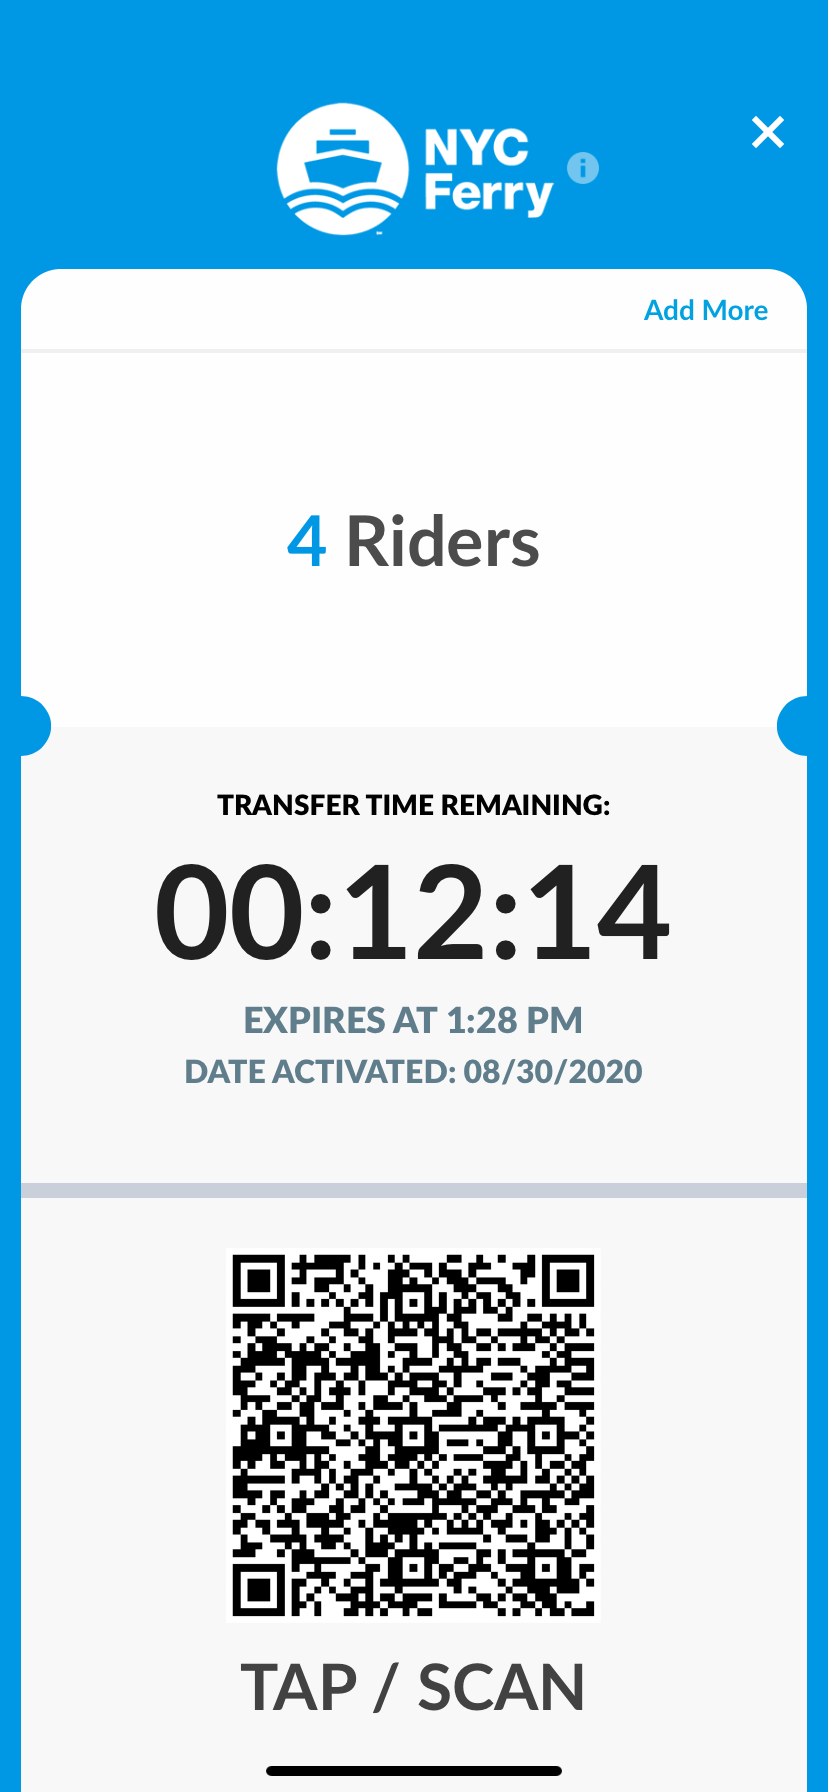
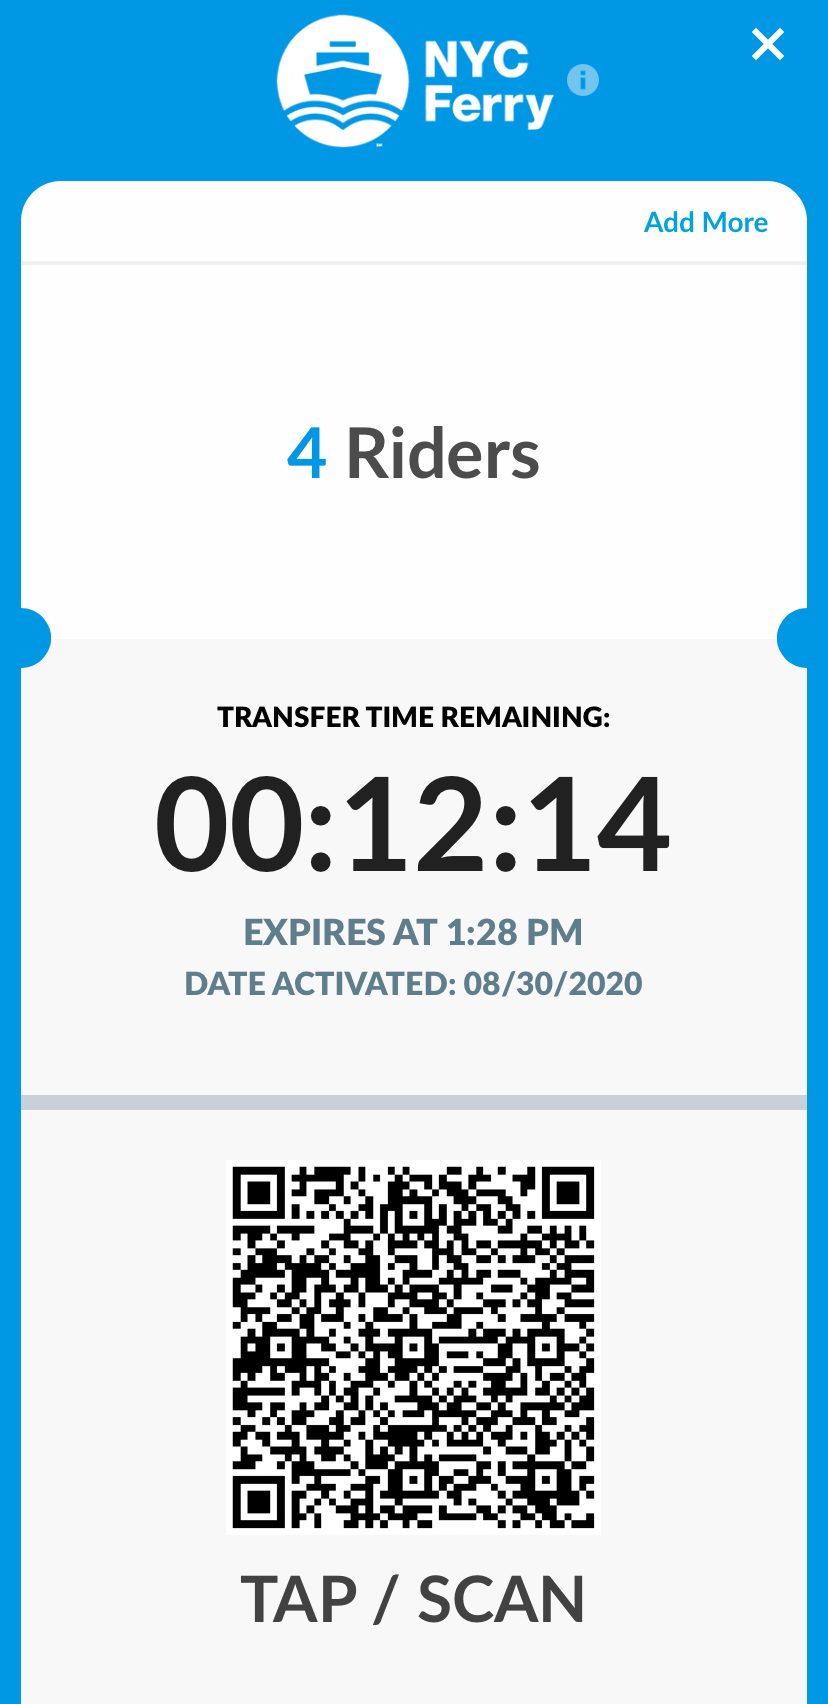
fixing background image and starting to place things in their right places

diff --git a/styles/styles.tsx b/styles/styles.tsx
@@ -4,7 +4,7 @@ export const Container = styled.div`
   width: 100vw;
   height: 100vh;
   background: url('./background.png');
-  background-size: contain;
+  background-size: cover;
 `;
 
 export const Riders = styled.span`
@@ -19,12 +19,14 @@ export const Riders = styled.span`
 
 export const ElapsedTime = styled.div<{ color: string }>`
   position: absolute;
-  top: 373px;
-  left: 61px;
-  font-size: 60px;
+  top: 369px;
+  left: 75px;
+  font-size: 62px;
   padding: 0.2rem;
   background: #f8f8f8;
   color: ${(props) => props.color};
+  letter-spacing: 0.1rem;
+  // opacity: 0.3;
 `;
 
 export const Activated = styled.time`

diff --git a/pages/index.tsx b/pages/index.tsx
@@ -84,6 +84,7 @@ const Home = (): JSX.Element => {
         <link rel="manifest" href="manifest.webmanifest" />
         <meta name="apple-mobile-web-app-capable" content="yes" />
         <meta name="mobile-wep-app-capable" content="yes" />
+        <meta name="apple-mobile-web-app-status-bar-style" content="black-translucent" />
       </Head>
       <GlobalStyles />
       <Riders onClick={toggleOpen}>{numberOfRiders}</Riders>

diff --git a/styles/globalStyles.tsx b/styles/globalStyles.tsx
@@ -7,6 +7,8 @@ export const GlobalStyles = createGlobalStyle`
     padding: 0;
     margin: 0;
     font-family: 'Lato', sans-serif;
+    background: #0098e4;
+    overflow: hidden;
   }
 
   html,
